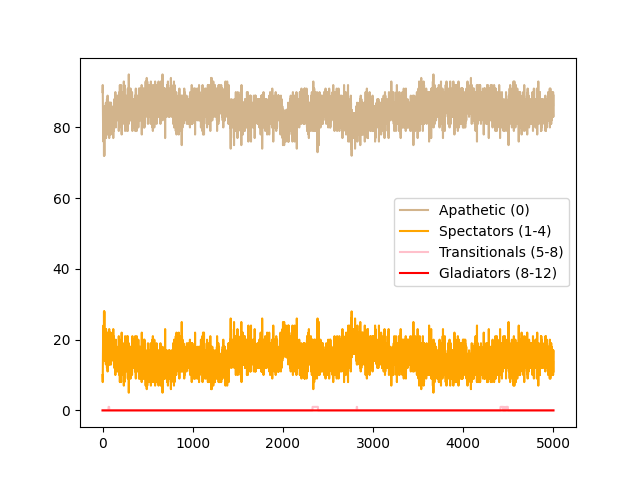
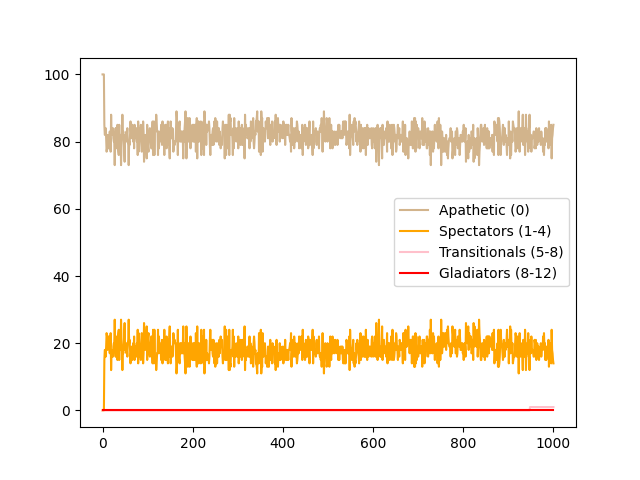
pre-merge-bs

diff --git a/agents.py b/agents.py
@@ -76,6 +76,7 @@ class Member(object):
         '''
         description: initializes a new Agent object
         '''
+        self.pyramid = True #TODO does pp depend on previous value?
         self.unique_id = unique_id
         self.model = model
         self.until_eligible = until_eligible
@@ -247,6 +248,7 @@ class Member(object):
         self.pps = np.append(self.pps, 0 if random.uniform(0, 1) > .1 else 1)
         
         if self.until_eligible != 0:
+            self.pps[-1] = 0
             return
         
         # NOTE base model says there should maybe be stochasticity here, but there isn't yet
@@ -258,53 +260,53 @@ class Member(object):
 
         # increase the level based on characteristics, and stop as soon as 1 check fails.
         # NOTE: base model uses model time, instead of time spent in community of agent. the latter makes much more sense
-        if self.active + self.overt + self.approaching + self.social + (2.5 * self.contacts ) / self.time_in_community  > 15:
+        if self.active + self.overt + self.approaching + self.social + (2.5 * self.contacts) / self.model.time  > 15:
             self.pps[-1] = 3
-        else:
+        elif self.pyramid:
             return
         
         if self.overt + self.expressive > 6:
             self.pps[-1] = 4
-        else:
+        elif self.pyramid:
             return
-
+        
         if self.overt + self.autonomous + self.approaching + self.outtaking > 12:
             self.pps[-1] = 5
-        else:
+        elif self.pyramid:
             return
-
+        
         if self.active + self.approaching - self.outtaking + self.expressive - self.social > 3:
             self.pps[-1] = 6
-        else:
+        elif self.pyramid:
             return
-
+        
         if self.overt + self.social + (2.5 * self.contacts ) / self.time_in_community > 9:
             self.pps[-1] = 7
-        else:
+        elif self.pyramid:
             return
-
+        
         if self.active + self.overt + self.approaching + self.outtaking + self.expressive + (5 / 3) * self.ses > 18:
             self.pps[-1] = 8
-        else:
+        elif self.pyramid:
             return
-
+        
         if self.continuous + self.expressive + (5 / 3) * self.ses > 9:
             self.pps[-1] = 9
-        else:
+        elif self.pyramid:
             return
-
+        
         if self.active + self.overt + self.continuous + (5 / 3) * self.ses > 12:
             self.pps[-1] = 10
-        else:
+        elif self.pyramid:
             return
-
-        if self.active + self.overt + self.approaching + self.continuous + (2.5 * self.contacts) / self.time_in_community + (5 / 3) * self.ses > 18:
+        
+        if self.active + self.overt + self.approaching + self.continuous + (2.5 * self.contacts) / self.model.time + (5 / 3) * self.ses > 18:
             self.pps[-1] = 11
-        else:
+        elif self.pyramid:
             return
-
-        if self.active + self.overt + self.autonomous + self.approaching + self.continuous - self.outtaking + (2.5 * self.contacts) / self.time_in_community + (5 / 3) * self.ses > 18:
+        
+        if self.active + self.overt + self.autonomous + self.approaching + self.continuous - self.outtaking + (2.5 * self.contacts) / self.model.time + (5 / 3) * self.ses > 18:
             self.pps[-1] = 12
-        else:
+        elif self.pyramid:
             return
-
+        

diff --git a/run.py b/run.py
@@ -32,7 +32,7 @@ if params.char_distr == 'normal': # truncated normal distribution, to stay withi
     samples = distr.rvs(params.n_agents * 8)
     characteristics = np.reshape(samples, (params.n_agents, 8))
 elif params.char_distr == 'uniform': # uniform distribution within limits
-    characteristics = np.random.uniform(0, 5, (params.n_agents, 8))
+    characteristics = np.random.uniform(1, 5, (params.n_agents, 8))
 
 # intialize each agent
 for idx in range(params.n_agents):
@@ -49,13 +49,23 @@ for idx in range(params.n_agents):
                           outtaking = characteristics[idx, 5], 
                           expressive = characteristics[idx, 6], 
                           social = characteristics[idx, 7],
-                          ses = random.uniform(1, 3)))
+                          ses = random.randint(1, 4)))
 
 
 ## run simulation
 for iteration in range(params.n_iterations):
     model.step()
-
+    smith = model.agents[0]
+    print(f'active = {round(smith.active, 1)}\n' 
+          f'overt  = {round(smith.overt, 1)}\n'
+          f'autonomous  = {round(smith.autonomous, 1)}\n'
+          f'approaching  = {round(smith.approaching, 1)}\n'
+          f'continuous  = {round(smith.continuous, 1)}\n'
+          f'outtaking  = {round(smith.outtaking, 1)}\n'
+          f'expressive  = {round(smith.expressive, 1)}\n'
+          f'social  = {round(smith.social, 1)}\n'
+          f'ses  = {smith.ses}\n')
+    print(f'pp = {smith.pps[-1]}')
 
 ## visualize results
 result_path = 'results'

diff --git a/configs/normal.py b/configs/normal.py
@@ -1,7 +1,7 @@
 # these are the tunable parameters to set the political landscape 
 # used for presets in the base model
 n_agents = 100
-n_iterations = 5000
+n_iterations = 1000
 char_distr = 'normal' # could also be 'uniform'
 until_eligible = 4
 characteristics_affected = {'active' : .4, 
